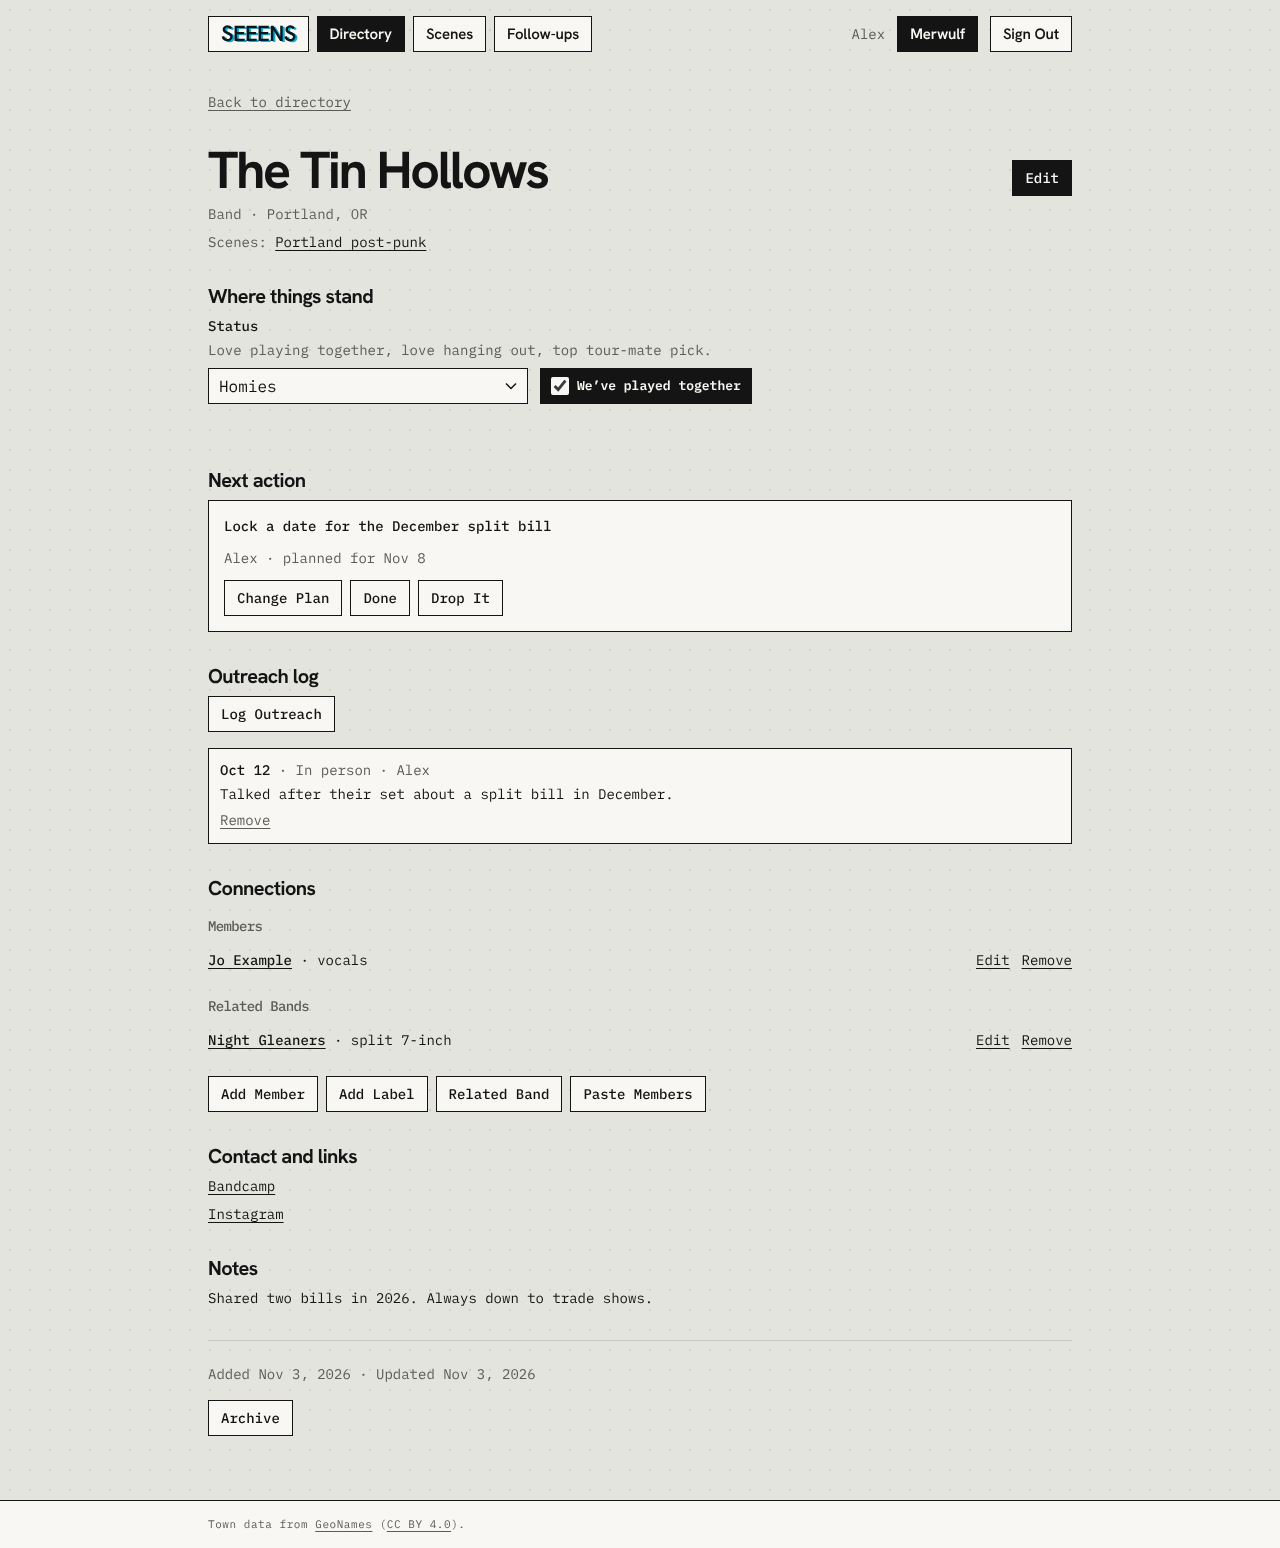
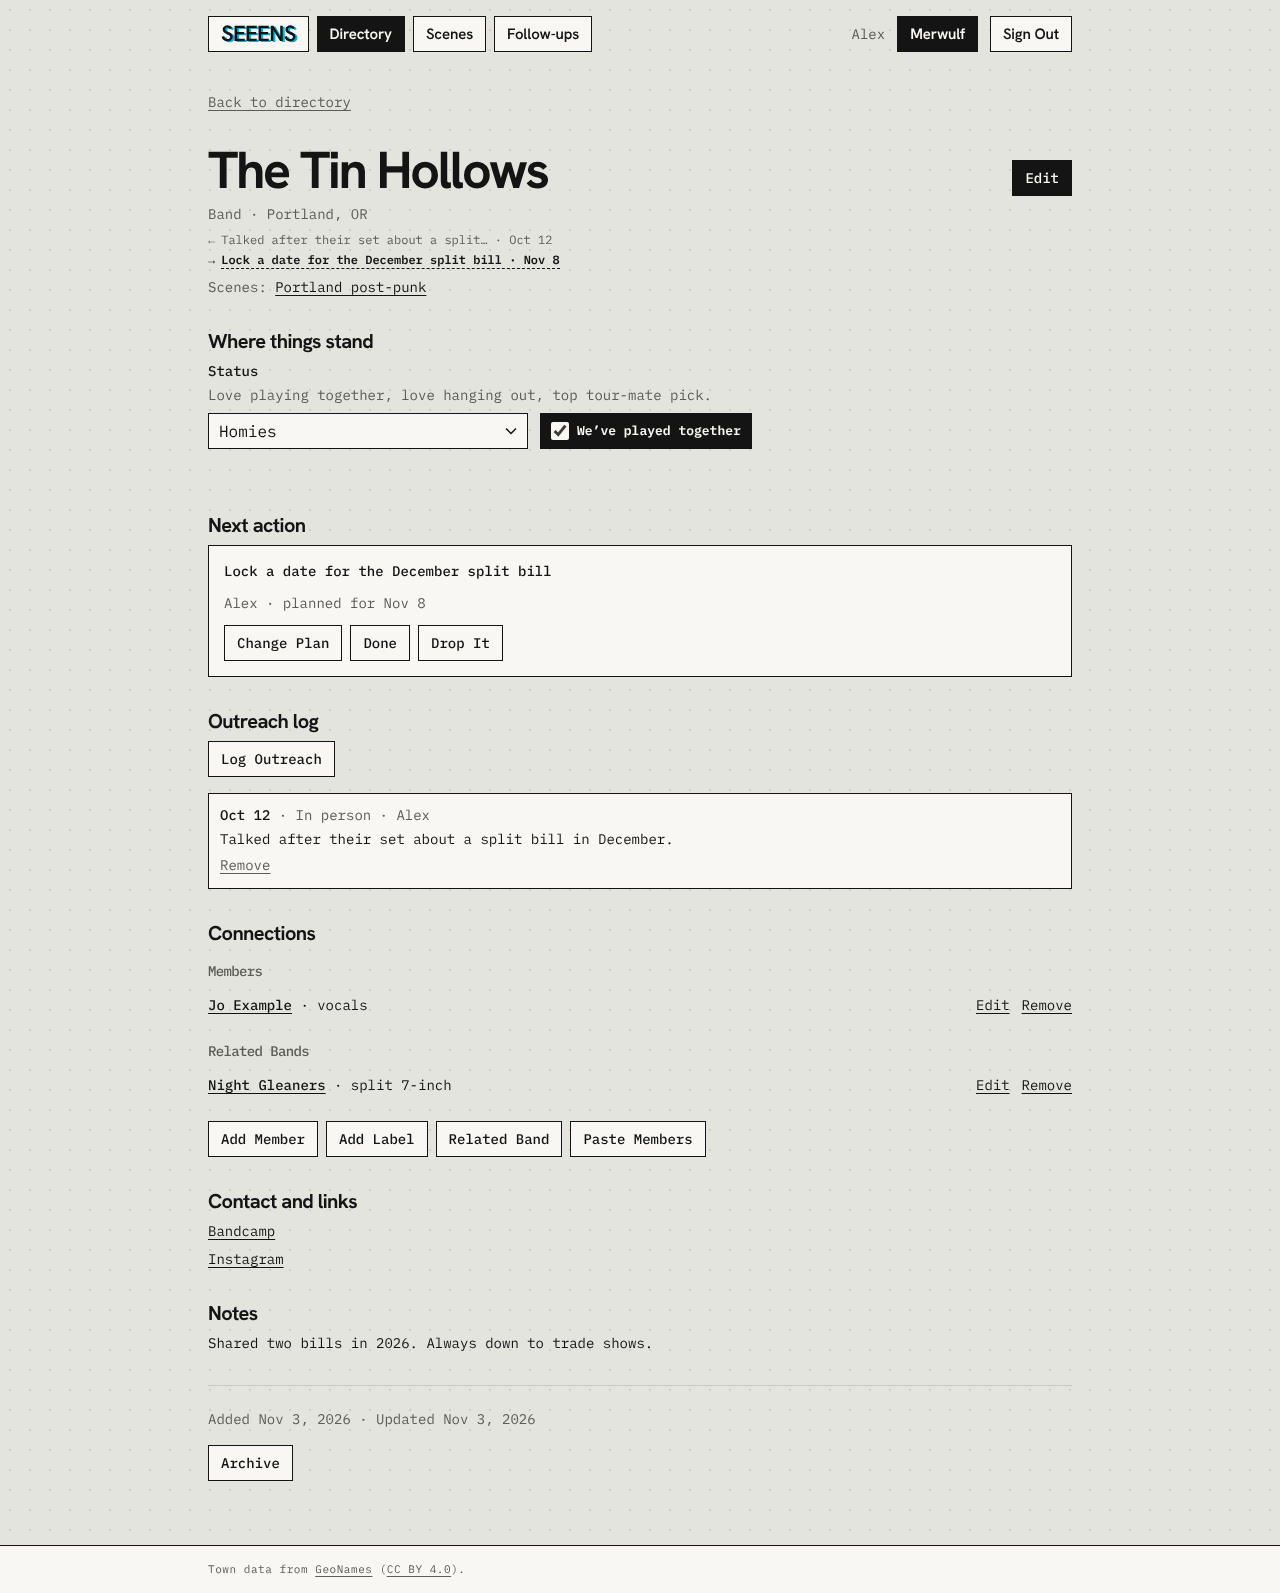
Date lines for past outreach and next plans (#61) (#104)
From the Figma Date Line: past outreach is muted with a left arrow, the
next plan is bold with a right arrow and a dashed underline. Shown on
directory rows and the connection page header, at most one of each.
Arrows and dots are hidden from screen readers, which hear "Last
outreach: ..., Oct 12" and "Next: ..., Nov 8". Dates never change color
or gain a badge.

The directory query embeds just the latest outreach entry and the open
plan. README connection screenshot regenerated.

Claude-Session: https://claude.ai/code/session_01SMP6NnyPkRALtU7G1T7uNS

diff --git a/src/app/(app)/page.tsx b/src/app/(app)/page.tsx
@@ -14,6 +14,8 @@ import {
 import type { ConnectionListItem } from "@/lib/connections/queries";
 import type { ConnectionStatus } from "@/lib/connections/labels";
 import { NoWorkspace } from "@/components/no-workspace";
+import { DateLines } from "@/components/date-line";
+import { todayISO } from "@/lib/outreach/labels";
 import { listSceneOptions, nestScenes, sceneAndChildren } from "@/lib/scenes/queries";
 import {
   TYPE_OPTIONS,
@@ -38,6 +40,7 @@ async function Directory({
 }) {
   const membership = await getMembership();
   if (!membership) return <NoWorkspace />;
+  const today = todayISO(new Date(), membership.timeZone);
 
   const params = await searchParams;
   const view = readView(params.view);
@@ -181,7 +184,7 @@ async function Directory({
               >
                 <span className="tag tag-ink">Us</span>
               </h2>
-              <ConnectionList connections={us} tagsFor={tagsFor} />
+              <ConnectionList connections={us} tagsFor={tagsFor} today={today} />
             </section>
           ) : null}
           {STATUSES.map((status) => {
@@ -202,7 +205,7 @@ async function Directory({
                   <span className={`tag tag-${status}`}>{STATUS_LABELS[status]}</span>{" "}
                   <span className="text-muted">({group.length})</span>
                 </h2>
-                <ConnectionList connections={group} tagsFor={tagsFor} />
+                <ConnectionList connections={group} tagsFor={tagsFor} today={today} />
               </section>
             );
           })}
@@ -399,9 +402,11 @@ function ViewLink({
 function ConnectionList({
   connections,
   tagsFor,
+  today,
 }: {
   connections: ConnectionListItem[];
   tagsFor: (id: string) => string[];
+  today: string;
 }) {
   return (
     <ul className="panel rows flex flex-col">
@@ -413,12 +418,15 @@ function ConnectionList({
               href={`/connections/${c.id}`}
               className="flex flex-col gap-1 px-3 py-3 row-link sm:flex-row sm:items-start sm:justify-between sm:gap-4"
             >
-              {/* Name first for screen readers; type caption sits above it visually, like the Figma card. */}
-              <span className="flex flex-col-reverse gap-1">
-                <span className="font-display text-xl leading-6 font-semibold tracking-[-0.03em] break-words">
-                  {c.name}
+              <span className="flex min-w-0 flex-col gap-2">
+                {/* Name first for screen readers; type caption sits above it visually, like the Figma card. */}
+                <span className="flex flex-col-reverse gap-1">
+                  <span className="font-display text-xl leading-6 font-semibold tracking-[-0.03em] break-words">
+                    {c.name}
+                  </span>
+                  <span className="caption">{formatType(c)}</span>
                 </span>
-                <span className="caption">{formatType(c)}</span>
+                <DateLines lastOutreach={c.outreach_entries[0]} nextAction={c.next_actions[0]} today={today} />
               </span>
               <span className="flex flex-wrap items-center gap-2 sm:justify-end">
                 {place ? <span className="text-sm text-muted">{place}</span> : null}

diff --git a/src/components/date-line.tsx b/src/components/date-line.tsx
@@ -1,0 +1,59 @@
+import { formatDay, shortLabel } from "@/lib/outreach/labels";
+
+// Figma Date Line: is this date history or a plan?
+//   ← Same bill · Sep 14     past outreach, muted
+//   → Follow up · Nov 12     the next plan, bold with a dashed underline
+// The arrows and the dot are decoration; screen readers hear "Last
+// outreach: Same bill, Sep 14" and "Next: Follow up, Nov 12". Dates are plain
+// facts: nothing turns red or says "overdue" (the no-pressure rule).
+
+export function DateLine({
+  kind,
+  label,
+  date,
+  today,
+}: {
+  kind: "past" | "future";
+  label: string;
+  date: string | null; // YYYY-MM-DD; plans may have none
+  today: string;
+}) {
+  const past = kind === "past";
+  return (
+    <span className={`date-line ${past ? "date-line-past" : "date-line-future"}`}>
+      <span aria-hidden="true">{past ? "←" : "→"}</span>
+      <span className="date-line-label">
+        <span className="sr-only">{past ? "Last outreach: " : "Next: "}</span>
+        {shortLabel(label)}
+        {date ? (
+          <>
+            <span aria-hidden="true"> · </span>
+            <span className="sr-only">, </span>
+            {formatDay(date, today)}
+          </>
+        ) : null}
+      </span>
+    </span>
+  );
+}
+
+// At most one past and one future line for a connection.
+export function DateLines({
+  lastOutreach,
+  nextAction,
+  today,
+}: {
+  lastOutreach: { occurred_on: string; summary: string } | null | undefined;
+  nextAction: { description: string; due_on: string | null } | null | undefined;
+  today: string;
+}) {
+  if (!lastOutreach && !nextAction) return null;
+  return (
+    <span className="flex flex-col gap-1">
+      {lastOutreach ? (
+        <DateLine kind="past" label={lastOutreach.summary} date={lastOutreach.occurred_on} today={today} />
+      ) : null}
+      {nextAction ? <DateLine kind="future" label={nextAction.description} date={nextAction.due_on} today={today} /> : null}
+    </span>
+  );
+}

diff --git a/src/lib/outreach/labels.test.ts b/src/lib/outreach/labels.test.ts
@@ -1,7 +1,7 @@
-// "Today" in the band's time zone. Run with: npm test
+// "Today" in the band's time zone, and date line labels. Run with: npm test
 import { test } from "node:test";
 import assert from "node:assert/strict";
-import { DEFAULT_TIME_ZONE, safeTimeZone, todayISO } from "./labels.ts";
+import { DEFAULT_TIME_ZONE, safeTimeZone, shortLabel, todayISO } from "./labels.ts";
 
 // 11:30 pm Sunday in Portland is already Monday in New York and Berlin.
 const lateSunday = new Date("2026-11-02T07:30:00Z");
@@ -23,4 +23,14 @@ test("an unknown zone falls back to Pacific instead of failing", () => {
   assert.equal(safeTimeZone(null), DEFAULT_TIME_ZONE);
   assert.equal(safeTimeZone("Europe/Berlin"), "Europe/Berlin");
   assert.equal(todayISO(lateSunday, "Not/AZone"), "2026-11-01");
+});
+
+test("date line labels stay short", () => {
+  assert.equal(shortLabel("Same bill"), "Same bill");
+  assert.equal(shortLabel("  Talked   after\ntheir set  "), "Talked after their set");
+  const long = shortLabel("Talked after their set about a split bill in December, maybe at the Static Basement");
+  assert.ok(long.length <= 40, long);
+  assert.ok(long.endsWith("…"));
+  assert.equal(long, "Talked after their set about a split…");
+  assert.equal(shortLabel("Supercalifragilisticexpialidocious-and-then-some-more-words"), "Supercalifragilisticexpialidocious-and…");
 });

diff --git a/src/lib/connections/queries.ts b/src/lib/connections/queries.ts
@@ -17,9 +17,14 @@ function fetchDirectoryConnections(supabase: Supabase, ws: string) {
     supabase
       .from("connections")
       .select(
-        "id, name, kind, person_roles, group_type, status, played_together, is_us, archived_at, locality_id, localities ( name, region, region_code, country, country_code, place_id ), connection_scenes ( scene_id )",
+        "id, name, kind, person_roles, group_type, status, played_together, is_us, archived_at, locality_id, localities ( name, region, region_code, country, country_code, place_id ), connection_scenes ( scene_id ), outreach_entries ( occurred_on, summary ), next_actions ( description, due_on )",
       )
       .eq("workspace_id", ws)
+      // Date lines: only the latest outreach and the open plan.
+      .eq("next_actions.status", "open")
+      .order("occurred_on", { referencedTable: "outreach_entries", ascending: false })
+      .order("created_at", { referencedTable: "outreach_entries", ascending: false })
+      .limit(1, { referencedTable: "outreach_entries" })
       .order("name")
       .order("id")
       .range(from, to),

diff --git a/src/app/globals.css b/src/app/globals.css
@@ -619,6 +619,39 @@
     text-decoration-thickness: 2px;
   }
 
+  /* Date line (Figma Date Line): history or plan at a glance. Mono/Small.
+     Past is muted; the next plan is SemiBold ink with a dashed underline
+     on its label. Long labels end in an ellipsis on one line. */
+  .date-line {
+    display: flex;
+    gap: 6px;
+    align-items: flex-start;
+    min-width: 0;
+    max-width: 100%;
+    font-family: var(--type-mono);
+    font-size: 12px;
+    line-height: 16px;
+    letter-spacing: 0;
+    text-transform: none;
+  }
+  .date-line-past {
+    color: var(--color-text-secondary);
+    font-weight: 400;
+  }
+  .date-line-future {
+    color: var(--color-text-primary);
+    font-weight: 600;
+  }
+  .date-line-label {
+    min-width: 0;
+    overflow: hidden;
+    text-overflow: ellipsis;
+    white-space: nowrap;
+  }
+  .date-line-future .date-line-label {
+    border-bottom: var(--stroke-hair) dashed var(--color-border-strong);
+  }
+
   /* Nav chip (Figma Nav Chip): Hanken in a box; current page inverts. */
   .nav-chip {
     display: inline-flex;

diff --git a/src/app/(app)/connections/[id]/page.tsx b/src/app/(app)/connections/[id]/page.tsx
@@ -4,6 +4,7 @@ import { getCurrentUser, getMembership } from "@/lib/auth/dal";
 import { todayISO } from "@/lib/outreach/labels";
 import { NextActionPanel } from "@/components/next-action-panel";
 import { OutreachPanel } from "@/components/outreach-panel";
+import { DateLines } from "@/components/date-line";
 import { getConnection } from "@/lib/connections/queries";
 import {
   STATUS_LABELS,
@@ -70,6 +71,9 @@ async function Connection({
         <p className="text-muted">
           {[formatType(c), place].filter(Boolean).join(" · ")}
         </p>
+        {/* Where things stand in time: the latest outreach and the next plan.
+            Details are in Next action and Outreach log below. */}
+        <DateLines lastOutreach={detail.outreach[0]} nextAction={nextAction} today={today} />
         <div className="flex flex-wrap gap-2 pt-1 empty:hidden">
           {c.is_us ? <span className="tag font-semibold">This is us</span> : null}
           {isLabelMateWithUs ? <span className="tag">Label mate</span> : null}

diff --git a/src/lib/outreach/labels.ts b/src/lib/outreach/labels.ts
@@ -51,3 +51,15 @@ export function formatDay(iso: string, today = todayISO()) {
     timeZone: "UTC",
   });
 }
+
+const MAX_LABEL = 40;
+
+// Keep the label to one short line, cut at a word where possible, so a long
+// outreach note doesn't swamp a directory row (or its link name).
+export function shortLabel(text: string, max = MAX_LABEL) {
+  const flat = text.replace(/\s+/g, " ").trim();
+  if (flat.length <= max) return flat;
+  const cut = flat.slice(0, max - 1);
+  const space = cut.lastIndexOf(" ");
+  return `${(space > max * 0.6 ? cut.slice(0, space) : cut).replace(/[\s,.;:–—-]+$/, "")}…`;
+}
